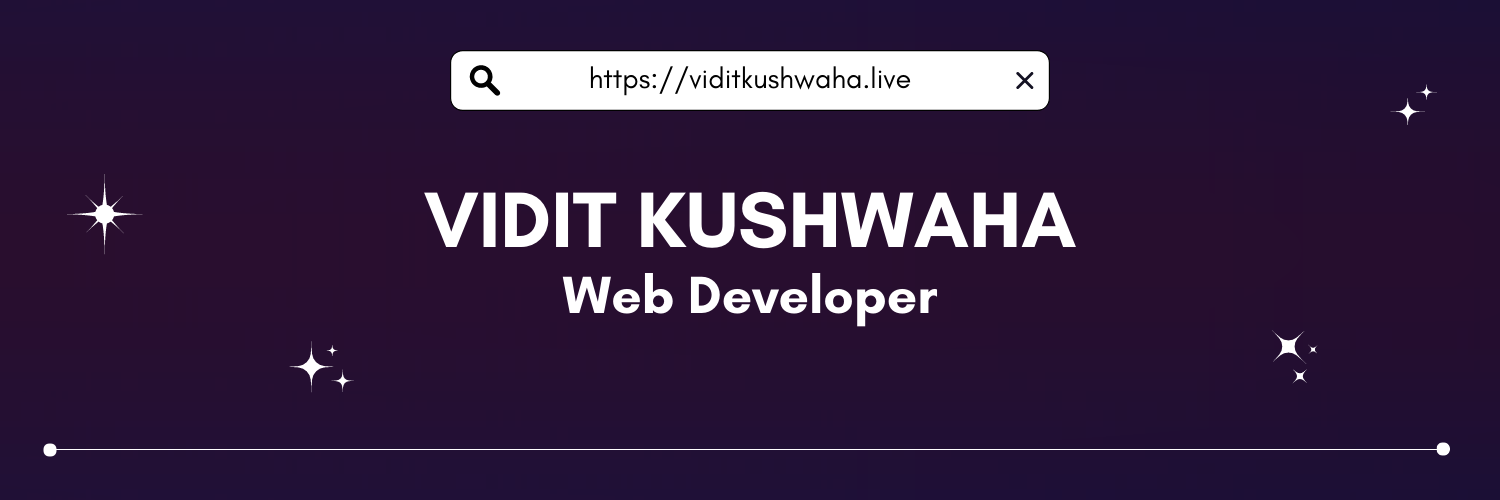
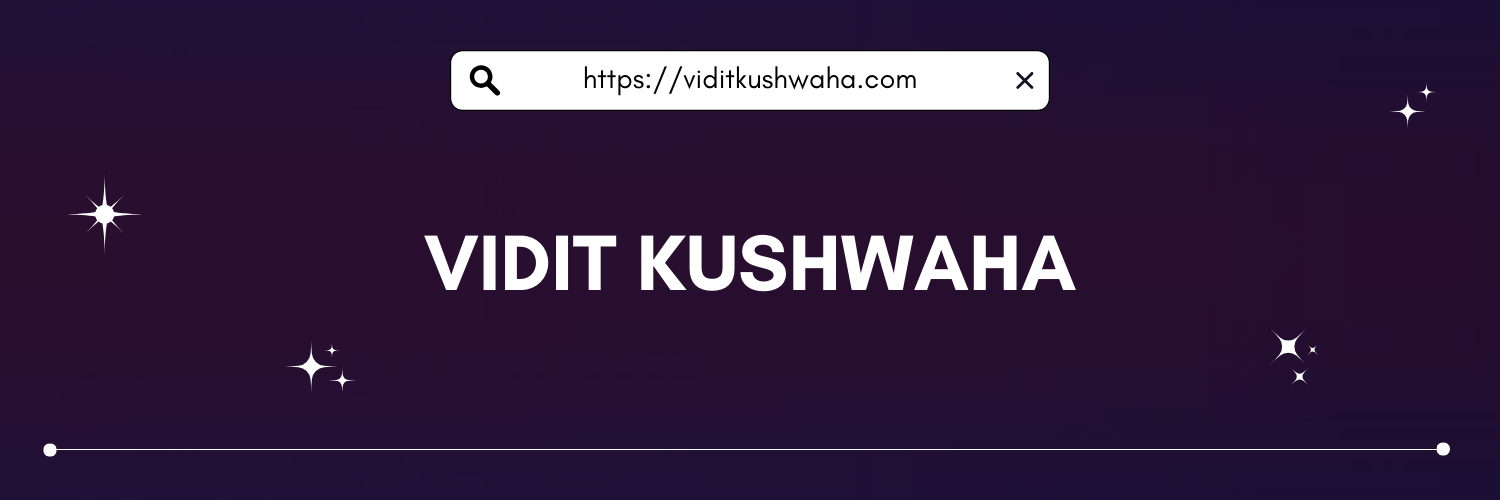
Updated Readme with new updated links

Changed region(s): [[0.276, 0.36, 0.736, 0.66], [0.368, 0.12, 0.6133, 0.18]]

diff --git a/README.md b/README.md
@@ -3,8 +3,8 @@
 </p>
 
 <p align="center">
-    <a href="https://viditkushwaha.live">
[1 lines of base64/hex data omitted]
+    <a href="https://viditkushwaha.com">
[1 lines of base64/hex data omitted]
     <a href="https://dev.to/viditkushwaha">
         <img src="https://img.shields.io/badge/%20-viditkushwaha-black?color=14171A&labelColor=&logo=dev.to&logoColor=ffffff" />
     </a>
@@ -17,8 +17,9 @@
 </p>
 
 ## 🙋♂ About Me
-- 🏫 I'm 3rd year student pursuing Bachelors in Metallurgical & Materials Engineering @NIT Rourkela.
-- 💬 Ask me about **Web Development**
+
+- 🏫 I'm Vidit Kushwaha, final year student, doing my bachelors of technology in Metallurgical & Materials Engineering from NIT Rourkela.
+- 💬 Ask me about **Web Development**, **Machine Learning**
 - 🎥 I’m building next: No Idea.
 - 👯 I’m looking to collaborate on **OpenSource Projects**
 
@@ -27,7 +28,6 @@
 <p align="center"><img src="https://github-readme-stats.vercel.app/api?username=Vidit-Kushwaha&show_icons=true&count_private=true&hide=issues,contribs&theme=react" alt="GitHub stats" /></p>
 
 <p align="center"><img src="https://streak-stats.demolab.com?user=Vidit-Kushwaha&theme=react&border_radius=5&date_format=M%20j%5B%2C%20Y%5D&currStreakNum=DD0000" alt="Adrian's GitHub streak stats" /></p>
-
 
 </details>
 
@@ -40,10 +40,10 @@
 </details>
 
 <details><summary><b>Languages and Tools I've Used</b></summary>
-<br>
-<p align="center">
-  <img src="https://skillicons.dev/icons?i=html,css,js,nodejs,react,redux,nextjs,mongodb,express,bootstrap,tailwind,git,github,vscode&perline=7" />
-</p>
-<br><br>
+    <br>
+    <p align="center">
+        <img src="https://skillicons.dev/icons?i=html,css,js,ts,nodejs,react,redux,nextjs,mongodb,express,bootstrap,tailwind,git,github,vscode,cpp,py,docker,aws,linux,ubuntu&perline=7" />
+    </p>
+    <br>
 
 </details>
